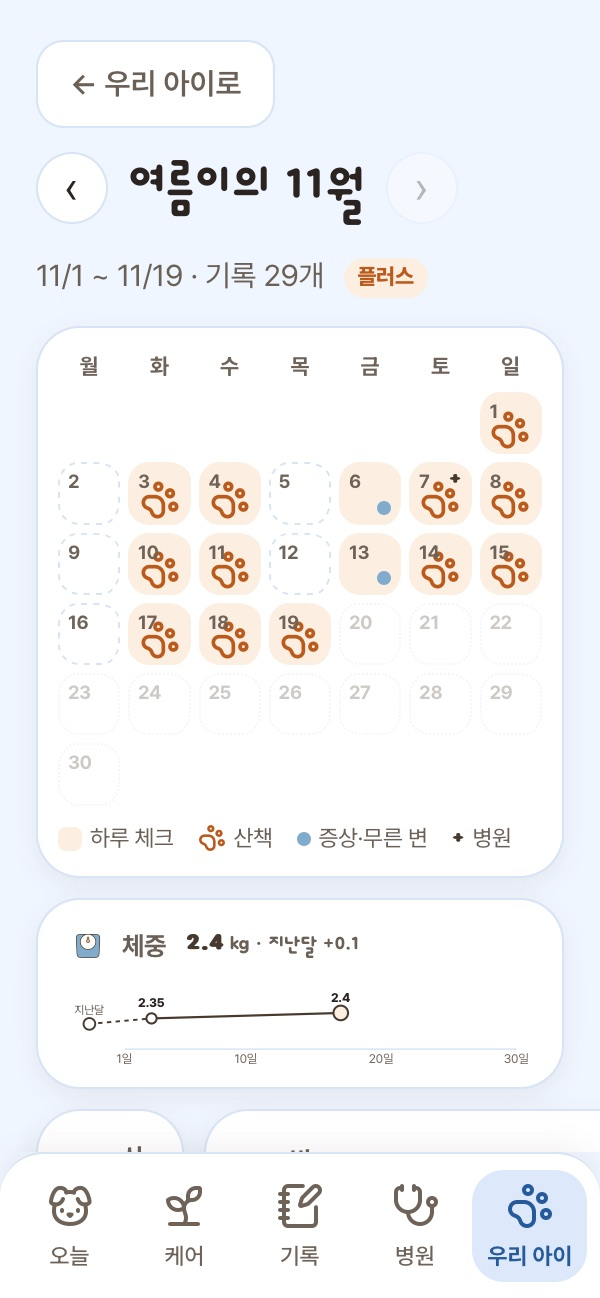
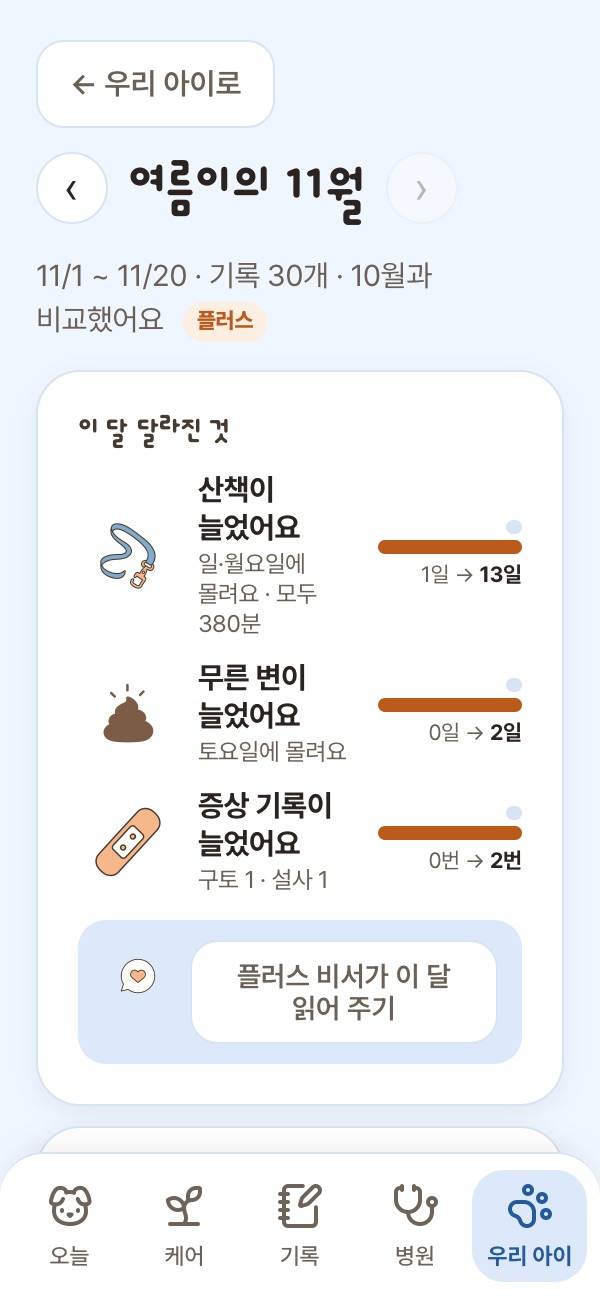
캐릭터 나이 19세 통일, 오프라인 문구를 아래 탭 위로(설정 버튼 안 가림), 홈페이지 플러스 섹션 재구성(세 가지→두 플랜→비교표→자세히→단품→정책 네 줄), 플러스·리포트 스크린샷 갱신

diff --git a/public/intro/index.html b/public/intro/index.html
@@ -37,7 +37,7 @@
   <link rel="preload" href="/fonts/bagelfatone-subset.woff2" as="font" type="font/woff2" crossorigin />
   <link rel="stylesheet" href="https://cdn.jsdelivr.net/gh/orioncactus/pretendard@v1.3.9/dist/web/variable/pretendardvariable-dynamic-subset.min.css" />
   <!-- 2026-11-14 개편: 스티커 아이콘(/sk/stickers.svg)과 같은 손그림 느낌. 설명서·자료실도 home.css 위에 각자 css -->
-  <link rel="stylesheet" href="/intro/home.css?v=3" />
+  <link rel="stylesheet" href="/intro/home.css?v=4" />
   <noscript><link rel="stylesheet" href="/intro/nojs.css?v=2" /></noscript>
 </head>
 <body>
@@ -363,40 +363,84 @@
         <p class="kicker center">멍케어 플러스</p>
         <h2 id="plus-title" class="sec-title">더 깊이 알고 싶은 날엔 <em>플러스</em></h2>
         <p class="plus-lead">하루 체크 · 기록 · 병원용 기록 · 이상 신호 · 알림 · 이번 주 리포트 · 월령별 가이드 · 가족 공유 · 여러 마리 — <b>지금 쓰는 건 전부 계속 무료</b>예요. 플러스는 여기에 세 가지를 더해요.</p>
-        <div class="plus-grid">
-          <article class="plus-card">
-            <figure class="phone mini"><img src="/intro/img/plus.jpg?v=1" alt="멍케어 플러스 화면 — 무료 비서와 플러스 비서 비교표" width="300" height="649" loading="lazy" /></figure>
+
+        <div class="pl-three" aria-label="플러스에 들어 있는 세 가지">
+          <a class="pl-tile" href="#pl-asst"><svg class="sk" aria-hidden="true"><use href="/sk/stickers.svg?v=3#sk-chatHeart"/></svg><b>플러스 비서</b><small>자세한 답 · 하루 20번</small></a>
+          <a class="pl-tile" href="#pl-month"><svg class="sk" aria-hidden="true"><use href="/sk/stickers.svg?v=3#sk-calendar"/></svg><b>한 달 리포트</b><small>달라진 점 · 겹쳐 보기</small></a>
+          <a class="pl-tile" href="#pl-char"><svg class="sk" aria-hidden="true"><use href="/sk/stickers.svg?v=3#sk-video"/></svg><b>우리 아이 캐릭터</b><small>연간에 기본 1번 포함</small></a>
+        </div>
+
+        <div class="pl-plans" aria-label="플러스 가격">
+          <div class="pl-plan on">
+            <span class="pl-tag">17% 절약</span>
+            <div class="pl-nm">1년</div>
+            <div class="pl-price">38,900<small>원</small></div>
+            <p>1년에 한 번 결제<br>월 3,900 × 12 = 46,800원보다 7,900원 아껴요</p>
+            <div class="pl-bonus"><svg class="sk" aria-hidden="true"><use href="/sk/stickers.svg?v=3#sk-video"/></svg><span><b>기본 캐릭터 1번 포함</b>4,900원 상당</span></div>
+          </div>
+          <div class="pl-plan">
+            <div class="pl-nm">한 달</div>
+            <div class="pl-price">3,900<small>원</small></div>
+            <p>매달 같은 날 결제<br>언제든 해지</p>
+            <p class="pl-dim">캐릭터는 단품으로 따로</p>
+          </div>
+        </div>
+
+        <table class="pl-cmp" aria-label="무료와 플러스 비교">
+          <thead><tr><th></th><th>무료</th><th class="pl">플러스</th></tr></thead>
+          <tbody>
+            <tr><td>하루 체크 · 기록 · 병원용 기록 · 알림 · 가족 공유</td><td class="ok">✓</td><td class="pl ok">✓</td></tr>
+            <tr><td>비서 빠른 답(두 줄)</td><td>하루 5번</td><td class="pl ok">하루 50번</td></tr>
+            <tr><td>비서 자세히 듣기(다섯 칸)</td><td class="no">—</td><td class="pl ok">하루 20번</td></tr>
+            <tr><td>한 달 리포트</td><td class="no">—</td><td class="pl ok">✓</td></tr>
+            <tr><td>우리 아이 캐릭터</td><td>단품 4,900원~</td><td class="pl ok">연간 1번 포함</td></tr>
+          </tbody>
+        </table>
+
+        <div class="pl-detail">
+          <article class="plus-card" id="pl-asst">
+            <figure class="phone mini"><img src="/intro/img/plus.jpg?v=2" alt="멍케어 플러스 고르기 화면 — 1년·한 달 카드와 무료 비교표" width="300" height="649" loading="lazy" /></figure>
             <div class="plus-text">
               <svg class="sk" aria-hidden="true"><use href="/sk/stickers.svg?v=3#sk-chatHeart"/></svg>
               <b>플러스 비서</b>
-              <p>누구나 먼저 <b>두 줄</b>(지금 할 일 · 병원에 물어볼 것)을 받고, 플러스는 그 아래 <b>[자세히 듣기]</b>로 결론 · 집에서 확인할 것 · 이유 · 병원에 가야 할 신호까지. 빠른 답 하루 50번, 자세한 답 20번. 둘 다 우리 아이 기록을 보고 답하고, 진단을 단정하거나 약 용량을 말하지 않아요.</p>
+              <p>누구나 먼저 <b>두 줄</b>(지금 할 일 · 병원에 물어볼 것)을 받아요. 플러스는 그 아래 <b>[자세히 듣기]</b>를 누르면 <b>결론 → 집에서 확인할 것 → 생각해 볼 이유 → 병원에 가야 할 신호 → 병원에서 할 말</b> 다섯 칸으로 와요. 둘 다 우리 아이 기록을 보고 답하고, 진단을 단정하거나 약 용량을 말하지 않아요.</p>
             </div>
           </article>
-          <article class="plus-card">
-            <figure class="phone mini"><img src="/intro/img/month.jpg?v=1" alt="한 달 리포트 화면 — 달력 한 장과 체중 곡선" width="300" height="649" loading="lazy" /></figure>
+          <article class="plus-card" id="pl-month">
+            <figure class="phone mini"><img src="/intro/img/month.jpg?v=2" alt="한 달 리포트 화면 — 달력 한 장과 체중 곡선" width="300" height="649" loading="lazy" /></figure>
             <div class="plus-text">
               <svg class="sk" aria-hidden="true"><use href="/sk/stickers.svg?v=3#sk-calendar"/></svg>
               <b>한 달 리포트</b>
-              <p>지난달과 <b>달라진 점 세 줄</b>(산책이 5일 → 12일처럼 숫자만), 증상 난 날 <b>앞뒤를 겹쳐 보기</b>(전날 밥을 적게 먹었나), 달력 한 장, 체중 흐름, 그리고 캐릭터가 들어간 <b>이 달 자랑 카드</b>. 플러스 비서가 그 달을 한 문단으로 읽어 줘요. 이번 주 리포트는 계속 무료.</p>
-            </div>
-          </article>
-          <article class="plus-card plus-card-char">
-            <div class="plus-art" aria-label="같은 강아지로 만든 두 그림체 예시">
-              <figure><img src="/character/sample-3d.jpg" alt="3D 영화풍 캐릭터 예시" width="480" height="480" loading="lazy" /><figcaption>3D 영화풍</figcaption></figure>
-              <figure><img src="/character/sample-hand.jpg" alt="손그림 크레파스 캐릭터 예시" width="480" height="480" loading="lazy" /><figcaption>손그림 크레파스</figcaption></figure>
-            </div>
-            <div class="plus-text">
-              <svg class="sk" aria-hidden="true"><use href="/sk/stickers.svg?v=3#sk-video"/></svg>
-              <b>우리 아이 캐릭터</b>
-              <p>사진 2~4장을 올리면 <b>우리 아이를 닮은 캐릭터</b>가 후보 4장으로 나오고, 고른 그림이 <b>움직이는 영상</b>이 돼 첫 화면 강아지 자리에 살아요. 기다리기·고민하기가 기본, 정성은 기쁨·졸림·밥·산책 같은 부가 동작 3편을 더해요. 사진은 캐릭터를 만든 뒤 지워요.</p>
-              <p class="plus-small">단품 기본 4,900원 · 정성 9,900원 · 다른 그림체 추가 3,900원 <span class="plus-tag">곧 출시</span></p>
+              <p>지난달과 <b>달라진 점 세 줄</b>(산책이 5일 → 12일처럼 숫자만), 증상 난 날 <b>앞뒤를 겹쳐 보기</b>(전날 밥을 적게 먹었나), 달력 한 장, 체중 흐름, 캐릭터가 들어간 <b>이 달 자랑 카드</b>. 플러스 비서가 <b>잘한 것 · 지켜볼 것 · 다음 달 할 일</b> 세 칸으로 읽어 줘요. 이번 주 리포트는 계속 무료.</p>
             </div>
           </article>
         </div>
-        <div class="plus-price">
-          <div class="plus-price-main"><span class="plus-price-label">정식 가격(예정)</span><b>월 3,900원</b><span class="plus-or">또는</span><b>연 38,900원</b><span class="plus-price-note">연간엔 기본 캐릭터 1번 포함</span></div>
-          <p class="plus-price-beta"><svg class="sk" aria-hidden="true"><use href="/sk/stickers.svg?v=3#sk-sparkles"/></svg><span><b>지금은 베타라 전부 무료</b>예요. 결제는 정식 출시 때 열리고, 그전까지는 베타 테스터 코드로 먼저 써 봐요. 설정 → <b>멍케어 플러스</b>에서 코드를 넣어요.</span></p>
+
+        <div class="pl-single" id="pl-char">
+          <div class="pl-single-head">
+            <svg class="sk" aria-hidden="true"><use href="/sk/stickers.svg?v=3#sk-video"/></svg>
+            <div><b>우리 아이 캐릭터</b><span>플러스 없이 단품으로도 가져요</span></div>
+          </div>
+          <p class="pl-single-lead">사진 2~4장을 올리면 <b>우리 아이를 닮은 후보 4장</b>이 나와요. 고른 그림이 <b>움직이는 영상</b>이 돼 첫 화면 강아지 자리에 살아요.</p>
+          <div class="plus-art" aria-label="같은 강아지로 만든 두 그림체 예시">
+            <figure><img src="/character/sample-3d.jpg" alt="3D 영화풍 캐릭터 예시" width="480" height="480" loading="lazy" /><figcaption>3D 영화풍</figcaption></figure>
+            <figure><img src="/character/sample-hand.jpg" alt="손그림 크레파스 캐릭터 예시" width="480" height="480" loading="lazy" /><figcaption>손그림 크레파스</figcaption></figure>
+          </div>
+          <div class="pl-tiers">
+            <div class="pl-tier"><div><b>기본</b><span>후보 4장 중 1장 · 다시 뽑기 2번 · 움직임 2편(기다리기 · 고민하기)</span></div><em>4,900<small>원</small></em></div>
+            <div class="pl-tier"><div><b>정성</b><span>기본 + 부가 동작 3편(기쁨 · 졸림 · 밥 기다림 · 산책 가자 중) · 다시 뽑기 4번 · 사람이 보정</span></div><em>9,900<small>원</small></em></div>
+            <div class="pl-tier add"><div><b>다른 그림체 하나 더</b><span>추가로 내는 돈 · 플러스면 2,900원</span></div><em>+3,900<small>원</small></em></div>
+          </div>
+          <p class="pl-warn"><svg class="sk" aria-hidden="true"><use href="/sk/stickers.svg?v=3#sk-lock"/></svg><span><b>후보를 먼저 보고 골라요.</b> 하나도 안 닮으면 그 자리에서 전액 환불. 만든 뒤에는 디지털 콘텐츠라 단순 변심 환불이 안 돼요. 사진은 캐릭터가 완성되면 지워요.</span></p>
         </div>
+
+        <div class="pl-policy" aria-label="결제 정책">
+          <div><b>연간 중도 해지</b>쓴 달을 월 3,900원으로 빼고, 캐릭터를 만들었으면 4,900원도 빼고 나머지를 돌려드려요. 위약금 없음.</div>
+          <div><b>월간 해지</b>해지해도 그달 결제일 전날까지 쓰고, 다음 달부터 결제되지 않아요.</div>
+          <div><b>자동 갱신 알림</b>결제 7일 전에 이메일로 미리 알려요. 해지는 설정 › 플러스에서 한 번에.</div>
+          <div><b>결제 나이</b>플러스·캐릭터 모두 만 19세 이상만 결제할 수 있어요.</div>
+        </div>
+        <p class="plus-price-beta"><svg class="sk" aria-hidden="true"><use href="/sk/stickers.svg?v=3#sk-sparkles"/></svg><span><b>지금은 베타라 전부 무료</b>예요. 결제는 정식 출시 때 열리고, 그전까지는 베타 테스터 코드로 먼저 써 봐요. 설정 → <b>멍케어 플러스</b> → [플러스 시작하기]에서 같은 화면을 미리 볼 수 있어요.</span></p>
       </div>
     </section>
 
@@ -468,7 +512,7 @@
         </details>
         <details>
           <summary>우리 아이 캐릭터는 어떻게 만들어요? 사진은 어디로 가요?</summary>
-          <p>설정 → 멍케어 플러스 → <b>우리 아이 캐릭터</b>에서 그림체(3D 영화풍 / 손그림 크레파스)를 고르고 사진 2~4장을 올려요. 후보 4장이 나오면 가장 닮은 하나를 고르고(다시 뽑기 2번), 10분쯤 뒤 기다리기·고민하기 영상 2편이 첫 화면 강아지 자리에 들어가요. 사진은 위치 정보를 지운 뒤 그림·영상 AI(해외 서버)로 보내고, <b>캐릭터를 만든 뒤 바로 지워요</b>. 시작할 때 만 18세 이상 확인과 국외 전송 동의를 받고, 생성이 시작되면 취소할 수 없어요. 지금은 곧 출시 상태라 “출시되면 알려 주세요”를 켜 두거나 초대 코드로 먼저 써 볼 수 있어요.</p>
+          <p>설정 → 멍케어 플러스 → <b>우리 아이 캐릭터</b>에서 그림체(3D 영화풍 / 손그림 크레파스)를 고르고 사진 2~4장을 올려요. 후보 4장이 나오면 가장 닮은 하나를 고르고(다시 뽑기 2번), 10분쯤 뒤 기다리기·고민하기 영상 2편이 첫 화면 강아지 자리에 들어가요. 사진은 위치 정보를 지운 뒤 그림·영상 AI(해외 서버)로 보내고, <b>캐릭터를 만든 뒤 바로 지워요</b>. 시작할 때 만 19세 이상 확인과 국외 전송 동의를 받고, 생성이 시작되면 취소할 수 없어요. 지금은 곧 출시 상태라 “출시되면 알려 주세요”를 켜 두거나 초대 코드로 먼저 써 볼 수 있어요.</p>
         </details>
         <details>
           <summary>앱스토어에 없나요?</summary>

diff --git a/public/intro/guide/index.html b/public/intro/guide/index.html
@@ -17,7 +17,7 @@
   <link rel="apple-touch-icon" href="/icon-180.png?v=6" />
   <link rel="preconnect" href="https://cdn.jsdelivr.net" crossorigin />
   <link rel="stylesheet" href="https://cdn.jsdelivr.net/gh/orioncactus/pretendard@v1.3.9/dist/web/variable/pretendardvariable-dynamic-subset.min.css" />
-  <link rel="stylesheet" href="/intro/home.css?v=3" />
+  <link rel="stylesheet" href="/intro/home.css?v=4" />
   <link rel="stylesheet" href="/intro/guide.css?v=5" />
 </head>
 <body class="guide">
@@ -136,7 +136,7 @@
           </div>
           <figure class="g-sec-shot"><img src="/intro/img/plus.jpg?v=1" alt="멍케어 플러스 화면 예시" width="300" height="649" loading="lazy" /><figcaption>예시 화면</figcaption></figure>
         </header>
-        <article class="g-q" id="pl-what"><h3>플러스에는 뭐가 들어 있어요?</h3><dl class="g-table"><div><dt>플러스 비서</dt><dd>무료 비서는 두 줄(지금 할 일 · 병원에 물어볼 것, 하루 5번). 플러스 비서는 결론 · 집에서 확인할 것 · 이유 · 병원 신호까지 자세히, 하루 20번(자세한 답). 둘 다 우리 아이 기록을 보고 답해요.</dd></div><div><dt>한 달 리포트</dt><dd>달력 한 장 · 체중 곡선 · 지난달 비교 · 비서 세 줄 해설. <a href="#pf-month">자세히</a></dd></div><div><dt>우리 아이 캐릭터</dt><dd>연간 플러스엔 기본 캐릭터 1번이 들어 있고, 정성 올리기·그림체 추가는 플러스 할인이에요.</dd></div></dl><p class="g-note"><svg class="sk" aria-hidden="true"><use href="/sk/stickers.svg?v=3#sk-heart"/></svg><span>하루 체크 · 기록 · 병원용 기록 · 이상 신호 · 알림 · 이번 주 리포트 · 월령별 가이드 · 가족 공유 · 여러 마리는 플러스와 상관없이 계속 무료예요.</span></p></article><article class="g-q" id="pl-price"><h3>얼마예요? 언제 결제해요?</h3><p>정식 가격은 <b>월 3,900원 또는 연 38,900원</b>으로 예정했어요. 캐릭터 단품은 기본 4,900원(후보 4장 → 1장, 기본 움직임 2편) · 정성 9,900원(부가 동작 3편) · 다른 그림체 추가 3,900원이에요.</p><p>지금은 <b>베타라 전부 무료</b>예요. 결제는 정식 출시 때 열리고, 그전에는 베타 테스터에게 드린 코드로 써요. 가격은 정식 출시 전에 바뀔 수 있어요.</p></article><article class="g-q" id="pl-code"><h3>코드는 어디에 넣어요?</h3><ol class="g-steps"><li>우리 아이 탭 오른쪽 위 <b>☰</b>으로 설정을 열어요.</li><li><b>멍케어 플러스</b> 묶음에서 <b>멍케어 플러스</b>를 눌러요.</li><li>맨 아래 칸에 코드(MC-PLUS-…)를 넣고 <b>[코드 쓰기]</b>. 캐릭터만 여는 코드(MC-GIFT-…)는 <b>우리 아이 캐릭터</b> 화면에서 넣어요.</li></ol><p>코드는 강아지 한 마리에 한 번 써요. 다른 폰이라도 같은 강아지(가족 공유)면 그대로 열려요.</p></article><article class="g-q" id="pl-char"><h3>우리 아이 캐릭터는 어떻게 만들어요?</h3><ol class="g-steps"><li>설정 → 멍케어 플러스 → <b>우리 아이 캐릭터</b>. 지금은 곧 출시 상태라 <b>[출시되면 알려 주세요]</b>를 켜 두거나 초대 코드를 넣어요.</li><li>그림체를 골라요. <b>3D 영화풍</b>(포근한 애니메이션 느낌) 또는 <b>손그림 크레파스</b>(그림일기 느낌).</li><li>얼굴이 잘 보이는 사진 <b>2~4장</b>을 올리고 동의(만 18세 이상 · 국외 전송 · 시작 뒤 취소 불가)에 체크해요.</li><li>3분쯤 뒤 <b>후보 4장</b>이 나와요. 가장 닮은 하나를 고르고, 아니면 [다시 뽑기](2번까지).</li><li>10분쯤 뒤 <b>기다리기 · 고민하기</b> 영상 2편이 완성되고, 첫 화면 강아지가 우리 아이로 바뀌어요. 만드는 동안 첫 화면 오른쪽 위에 발바닥 게이지가 돌아요.</li></ol><p>정성은 기쁨 · 졸림 · 밥 기다림 · 산책 가자 중 세 편을 더해요. 밤엔 졸고, 밥 시간엔 그릇을 보고, 기록을 저장하면 기뻐해요.</p><p class="g-tip"><svg class="sk" aria-hidden="true"><use href="/sk/stickers.svg?v=3#sk-idea"/></svg><span><b>잘 나오게 하려면</b> 정면·옆·전신이 섞인 밝은 사진이 좋아요. 목줄·옷은 빼고, 다른 강아지가 같이 찍힌 사진은 피해요.</span></p></article><article class="g-q" id="pl-photo"><h3>캐릭터 사진은 어디로 가요?</h3><p>올리기 전에 폰에서 <b>위치·기기 정보(EXIF)를 지우고</b> 크기를 줄여요. 그림은 Google Gemini, 영상은 Runway(미국) 서버에서 만들어지고, <b>캐릭터가 완성되면 원본 사진은 바로 지워요</b>. 완성된 캐릭터 영상만 멍케어 서버에 남아 우리 아이 화면에 쓰여요.</p><p>캐릭터는 설정 → 우리 아이 캐릭터에서 언제든 지울 수 있고, 기록·병원용 기록과는 상관없이 따로 저장돼요.</p></article>
+        <article class="g-q" id="pl-what"><h3>플러스에는 뭐가 들어 있어요?</h3><dl class="g-table"><div><dt>플러스 비서</dt><dd>무료 비서는 두 줄(지금 할 일 · 병원에 물어볼 것, 하루 5번). 플러스 비서는 결론 · 집에서 확인할 것 · 이유 · 병원 신호까지 자세히, 하루 20번(자세한 답). 둘 다 우리 아이 기록을 보고 답해요.</dd></div><div><dt>한 달 리포트</dt><dd>달력 한 장 · 체중 곡선 · 지난달 비교 · 비서 세 줄 해설. <a href="#pf-month">자세히</a></dd></div><div><dt>우리 아이 캐릭터</dt><dd>연간 플러스엔 기본 캐릭터 1번이 들어 있고, 정성 올리기·그림체 추가는 플러스 할인이에요.</dd></div></dl><p class="g-note"><svg class="sk" aria-hidden="true"><use href="/sk/stickers.svg?v=3#sk-heart"/></svg><span>하루 체크 · 기록 · 병원용 기록 · 이상 신호 · 알림 · 이번 주 리포트 · 월령별 가이드 · 가족 공유 · 여러 마리는 플러스와 상관없이 계속 무료예요.</span></p></article><article class="g-q" id="pl-price"><h3>얼마예요? 언제 결제해요?</h3><p>정식 가격은 <b>월 3,900원 또는 연 38,900원</b>으로 예정했어요. 캐릭터 단품은 기본 4,900원(후보 4장 → 1장, 기본 움직임 2편) · 정성 9,900원(부가 동작 3편) · 다른 그림체 추가 3,900원이에요.</p><p>지금은 <b>베타라 전부 무료</b>예요. 결제는 정식 출시 때 열리고, 그전에는 베타 테스터에게 드린 코드로 써요. 가격은 정식 출시 전에 바뀔 수 있어요.</p></article><article class="g-q" id="pl-code"><h3>코드는 어디에 넣어요?</h3><ol class="g-steps"><li>우리 아이 탭 오른쪽 위 <b>☰</b>으로 설정을 열어요.</li><li><b>멍케어 플러스</b> 묶음에서 <b>멍케어 플러스</b>를 눌러요.</li><li>맨 아래 칸에 코드(MC-PLUS-…)를 넣고 <b>[코드 쓰기]</b>. 캐릭터만 여는 코드(MC-GIFT-…)는 <b>우리 아이 캐릭터</b> 화면에서 넣어요.</li></ol><p>코드는 강아지 한 마리에 한 번 써요. 다른 폰이라도 같은 강아지(가족 공유)면 그대로 열려요.</p></article><article class="g-q" id="pl-char"><h3>우리 아이 캐릭터는 어떻게 만들어요?</h3><ol class="g-steps"><li>설정 → 멍케어 플러스 → <b>우리 아이 캐릭터</b>. 지금은 곧 출시 상태라 <b>[출시되면 알려 주세요]</b>를 켜 두거나 초대 코드를 넣어요.</li><li>그림체를 골라요. <b>3D 영화풍</b>(포근한 애니메이션 느낌) 또는 <b>손그림 크레파스</b>(그림일기 느낌).</li><li>얼굴이 잘 보이는 사진 <b>2~4장</b>을 올리고 동의(만 19세 이상 · 국외 전송 · 시작 뒤 취소 불가)에 체크해요.</li><li>3분쯤 뒤 <b>후보 4장</b>이 나와요. 가장 닮은 하나를 고르고, 아니면 [다시 뽑기](2번까지).</li><li>10분쯤 뒤 <b>기다리기 · 고민하기</b> 영상 2편이 완성되고, 첫 화면 강아지가 우리 아이로 바뀌어요. 만드는 동안 첫 화면 오른쪽 위에 발바닥 게이지가 돌아요.</li></ol><p>정성은 기쁨 · 졸림 · 밥 기다림 · 산책 가자 중 세 편을 더해요. 밤엔 졸고, 밥 시간엔 그릇을 보고, 기록을 저장하면 기뻐해요.</p><p class="g-tip"><svg class="sk" aria-hidden="true"><use href="/sk/stickers.svg?v=3#sk-idea"/></svg><span><b>잘 나오게 하려면</b> 정면·옆·전신이 섞인 밝은 사진이 좋아요. 목줄·옷은 빼고, 다른 강아지가 같이 찍힌 사진은 피해요.</span></p></article><article class="g-q" id="pl-photo"><h3>캐릭터 사진은 어디로 가요?</h3><p>올리기 전에 폰에서 <b>위치·기기 정보(EXIF)를 지우고</b> 크기를 줄여요. 그림은 Google Gemini, 영상은 Runway(미국) 서버에서 만들어지고, <b>캐릭터가 완성되면 원본 사진은 바로 지워요</b>. 완성된 캐릭터 영상만 멍케어 서버에 남아 우리 아이 화면에 쓰여요.</p><p>캐릭터는 설정 → 우리 아이 캐릭터에서 언제든 지울 수 있고, 기록·병원용 기록과는 상관없이 따로 저장돼요.</p></article>
         <a class="g-next" href="/?app"><span>다 읽었어요!</span><b>멍케어 시작하기</b><svg class="ic" aria-hidden="true"><use href="/intro/sprite.svg#i-chev"/></svg></a>
       </section>
         <p class="g-more">더 궁금한 건 <a href="/intro/#faq">자주 묻는 질문</a>을 보거나 <a href="mailto:meongcare.app@gmail.com">meongcare.app@gmail.com</a>으로 물어보세요.</p>

diff --git a/public/intro/home.css b/public/intro/home.css
@@ -346,6 +346,31 @@ section { padding: 44px 0; }
 .plus { padding: 56px 0 64px; background: var(--paper-2); }
 .plus-lead { max-width: 40em; margin: -14px auto 30px; text-align: center; font-size: 16px; line-height: 1.7; color: var(--ink-soft); }
 .plus-lead b { color: var(--ink); }
+/* 11/20 플러스 섹션 재구성(앱 결제창과 같은 순서): 세 가지 → 두 플랜 → 비교표 → 자세히 두 장 → 단품 → 정책 네 줄 */
+.pl-three { display: grid; grid-template-columns: repeat(3, minmax(0, 1fr)); gap: 10px; margin-bottom: 18px; }
+.pl-tile { display: grid; justify-items: center; gap: 4px; padding: 16px 8px 12px; text-align: center; background: var(--surface); border: 2px solid var(--ink); border-radius: 18px 22px 16px 20px / 20px 16px 22px 18px; color: var(--ink); text-decoration: none; font-weight: 800; font-size: 15px; line-height: 1.25; }
+.pl-tile .sk { width: 46px; height: 46px; } .pl-tile small { font-weight: 500; font-size: 12.5px; color: var(--ink-soft); }
+.pl-plans { display: grid; grid-template-columns: 1fr 1fr; gap: 12px; margin-bottom: 14px; }
+.pl-plan { position: relative; display: grid; gap: 8px; padding: 18px 16px 14px; background: var(--surface); border: 2px solid var(--line-strong); border-radius: 22px; min-height: 200px; }
+.pl-plan.on { border-color: var(--btn); background: var(--sky-bg); box-shadow: 0 0 0 4px rgba(54, 118, 198, .14); }
+.pl-nm { font-weight: 800; font-size: 16px; } .pl-price { font-family: var(--font-title); font-size: clamp(30px, 6vw, 40px); line-height: .95; color: var(--ink); } .pl-price small { font-family: inherit; font-size: 15px; color: var(--ink-soft); }
+.pl-plan p { margin: 0; font-size: 13.5px; line-height: 1.5; color: var(--ink-soft); } .pl-plan .pl-dim { margin-top: auto; color: var(--ink-soft); opacity: .8; }
+.pl-tag { position: absolute; top: -12px; left: 14px; padding: 4px 11px 3px; border-radius: 999px; background: var(--apricot); color: #fff; font-size: 13px; font-weight: 800; transform: rotate(-2deg); }
+.pl-bonus { display: flex; align-items: center; gap: 8px; padding: 8px 10px; background: var(--apricot-bg); border-radius: 12px; font-size: 13px; line-height: 1.3; color: var(--ink-soft); } .pl-bonus .sk { width: 28px; height: 28px; flex-shrink: 0; } .pl-bonus b { display: block; color: var(--ink); }
+.pl-cmp { width: 100%; border-collapse: collapse; font-size: 14px; margin-bottom: 28px; background: var(--surface); border: 2px solid var(--ink); border-radius: 18px; overflow: hidden; }
+.pl-cmp th, .pl-cmp td { padding: 10px 10px; border-bottom: 1px dashed var(--line); text-align: center; } .pl-cmp th:first-child, .pl-cmp td:first-child { text-align: left; } .pl-cmp th { font-size: 13px; color: var(--ink-soft); } .pl-cmp tbody tr:last-child td { border-bottom: 0; }
+.pl-cmp .ok { color: #2f8f6b; font-weight: 800; } .pl-cmp .no { color: var(--ink-soft); opacity: .6; } .pl-cmp .pl { background: var(--sky-bg); }
+.pl-detail { display: grid; gap: 18px; margin-bottom: 18px; }
+.pl-single { display: grid; gap: 14px; justify-items: center; padding: 26px 20px 22px; background: var(--surface); border: 2px solid var(--ink); border-radius: 26px; box-shadow: 4px 5px 0 var(--ink-10); margin-bottom: 18px; }
+.pl-single-head { display: flex; align-items: center; gap: 12px; width: 100%; } .pl-single-head .sk { width: 46px; height: 46px; flex-shrink: 0; } .pl-single-head b { display: block; font-size: 20px; } .pl-single-head span { font-size: 14px; color: var(--ink-soft); }
+.pl-single-lead { margin: 0; width: 100%; font-size: 15px; line-height: 1.65; color: var(--ink-soft); } .pl-single-lead b { color: var(--ink); }
+.pl-tiers { display: grid; gap: 8px; width: 100%; }
+.pl-tier { display: flex; justify-content: space-between; align-items: center; gap: 12px; padding: 12px 14px; border: 1.6px solid var(--line-strong); border-radius: 16px; background: var(--paper); } .pl-tier.add { border-style: dashed; }
+.pl-tier b { display: block; font-size: 15.5px; } .pl-tier span { font-size: 13px; line-height: 1.45; color: var(--ink-soft); } .pl-tier em { font-style: normal; font-family: var(--font-title); font-size: 24px; white-space: nowrap; } .pl-tier em small { font-family: inherit; font-size: 13px; color: var(--ink-soft); }
+.pl-warn { display: flex; gap: 10px; align-items: flex-start; margin: 0; width: 100%; padding: 12px 14px; border: 1.6px solid var(--apricot); background: var(--apricot-bg); border-radius: 14px; font-size: 14px; line-height: 1.55; color: var(--ink-soft); } .pl-warn .sk { width: 28px; height: 28px; flex-shrink: 0; } .pl-warn b { color: var(--ink); }
+.pl-policy { display: grid; grid-template-columns: 1fr 1fr; gap: 10px; margin-bottom: 14px; } .pl-policy div { padding: 12px 14px; background: var(--surface); border: 1.6px solid var(--ink); border-radius: 16px; font-size: 13.5px; line-height: 1.5; color: var(--ink-soft); } .pl-policy b { display: block; color: var(--ink); font-size: 14.5px; margin-bottom: 2px; }
+@media (max-width: 560px) { .pl-three { gap: 6px; } .pl-tile { font-size: 13.5px; padding: 12px 4px 10px; } .pl-tile .sk { width: 38px; height: 38px; } .pl-policy { grid-template-columns: 1fr; } .pl-cmp { font-size: 12.5px; } .pl-cmp th, .pl-cmp td { padding: 8px 6px; } }
+@media (min-width: 760px) { .pl-detail { grid-template-columns: 1fr 1fr; } }
 .plus-grid { display: grid; gap: 18px; }
 .plus-card { position: relative; display: grid; gap: 16px; justify-items: center; padding: 26px 20px 22px; background: var(--surface); border: 2px solid var(--ink); border-radius: 26px; box-shadow: 4px 5px 0 var(--ink-10); }
 .plus-card::before { content: ""; position: absolute; top: -11px; left: 50%; width: 92px; height: 24px; background-color: rgba(246, 183, 138, 0.75); background-image: radial-gradient(rgba(255, 255, 255, 0.55) 1px, transparent 1.6px); background-size: 7px 7px; transform: translateX(-50%) rotate(-2deg); border-radius: 3px; }

diff --git a/src/index.css b/src/index.css
@@ -1330,7 +1330,7 @@ button.seg, button.chip { min-height: 36px; }
 .qa-item { display: flex; flex-direction: column; align-items: flex-start; gap: 4px; padding: 14px; border-radius: 16px; border: 1px solid var(--border); background: var(--surface); color: var(--text); font: inherit; text-align: left; min-height: 96px; }
 .qa-item .faint { font-size: 12.5px; }
 .onb-rec { margin-top: 8px; padding: 6px 8px; border-radius: 8px; background: var(--accent-soft); font-size: 13px; display: flex; gap: 6px; align-items: center; }
-.offline-bar { position: fixed; top: calc(env(safe-area-inset-top, 0px) + 6px); left: 12px; right: 12px; z-index: 90; padding: 8px 12px; border-radius: 12px; background: #3b3f46; color: #fff; font-size: 12.5px; font-weight: 600; text-align: center; box-shadow: var(--shadow); }
+.offline-bar { position: fixed; bottom: calc(env(safe-area-inset-bottom, 0px) + 84px); left: 12px; right: 12px; z-index: 90; pointer-events: none; /* 11/20 사용자: 위에 있으면 설정(☰) 버튼을 가림 → 아래 탭 위로, 터치는 통과 */ padding: 8px 12px; border-radius: 12px; background: #3b3f46; color: #fff; font-size: 12.5px; font-weight: 600; text-align: center; box-shadow: var(--shadow); }
 /* 아이 갤러리 */
 .gl-grid { display: grid; grid-template-columns: repeat(3, 1fr); gap: 4px; }
 .gl-item { position: relative; padding: 0; border: none; aspect-ratio: 1; border-radius: 10px; overflow: hidden; background: var(--accent-soft); }

diff --git a/src/screens/Character.jsx b/src/screens/Character.jsx
@@ -191,7 +191,7 @@ function Form({ dog, job, st, setSt, act, busy }) {
 
       <section className="px-card">
         <div className="px-feat"><Ico name="checklist" size={38} /><div className="px-feat-body"><div className="px-feat-title"><span className="px-num">3</span>확인</div></div></div>
-        <label className="char-check"><input type="checkbox" checked={adult} onChange={(e) => setAdult(e.target.checked)} /><span>저는 만 18세 이상이에요(캐릭터 기능은 성인만 쓸 수 있어요)</span></label>
+        <label className="char-check"><input type="checkbox" checked={adult} onChange={(e) => setAdult(e.target.checked)} /><span>저는 만 19세 이상이에요(캐릭터 기능은 성인만 쓸 수 있어요)</span></label>
         <label className="char-check"><input type="checkbox" checked={consent} onChange={(e) => setConsent(e.target.checked)} /><span>사진이 캐릭터를 만들기 위해 미국의 AI 서비스(Google·Runway)로 전송되는 데 동의해요. 만든 뒤 사진은 바로 지워요. 시작한 뒤에는 취소할 수 없어요.</span></label>
       </section>
       <button type="button" className="btn-primary" onClick={go} disabled={busy || st.offline || !st.ready}>{busy ? "보내는 중…" : outputs ? "새로 만들기" : "만들기 시작"}</button>

diff --git a/public/intro/resources/index.html b/public/intro/resources/index.html
@@ -17,7 +17,7 @@
   <link rel="apple-touch-icon" href="/icon-180.png?v=6" />
   <link rel="preconnect" href="https://cdn.jsdelivr.net" crossorigin />
   <link rel="stylesheet" href="https://cdn.jsdelivr.net/gh/orioncactus/pretendard@v1.3.9/dist/web/variable/pretendardvariable-dynamic-subset.min.css" />
-  <link rel="stylesheet" href="/intro/home.css?v=3" />
+  <link rel="stylesheet" href="/intro/home.css?v=4" />
   <link rel="stylesheet" href="/intro/resources.css?v=4" />
 </head>
 <body>
